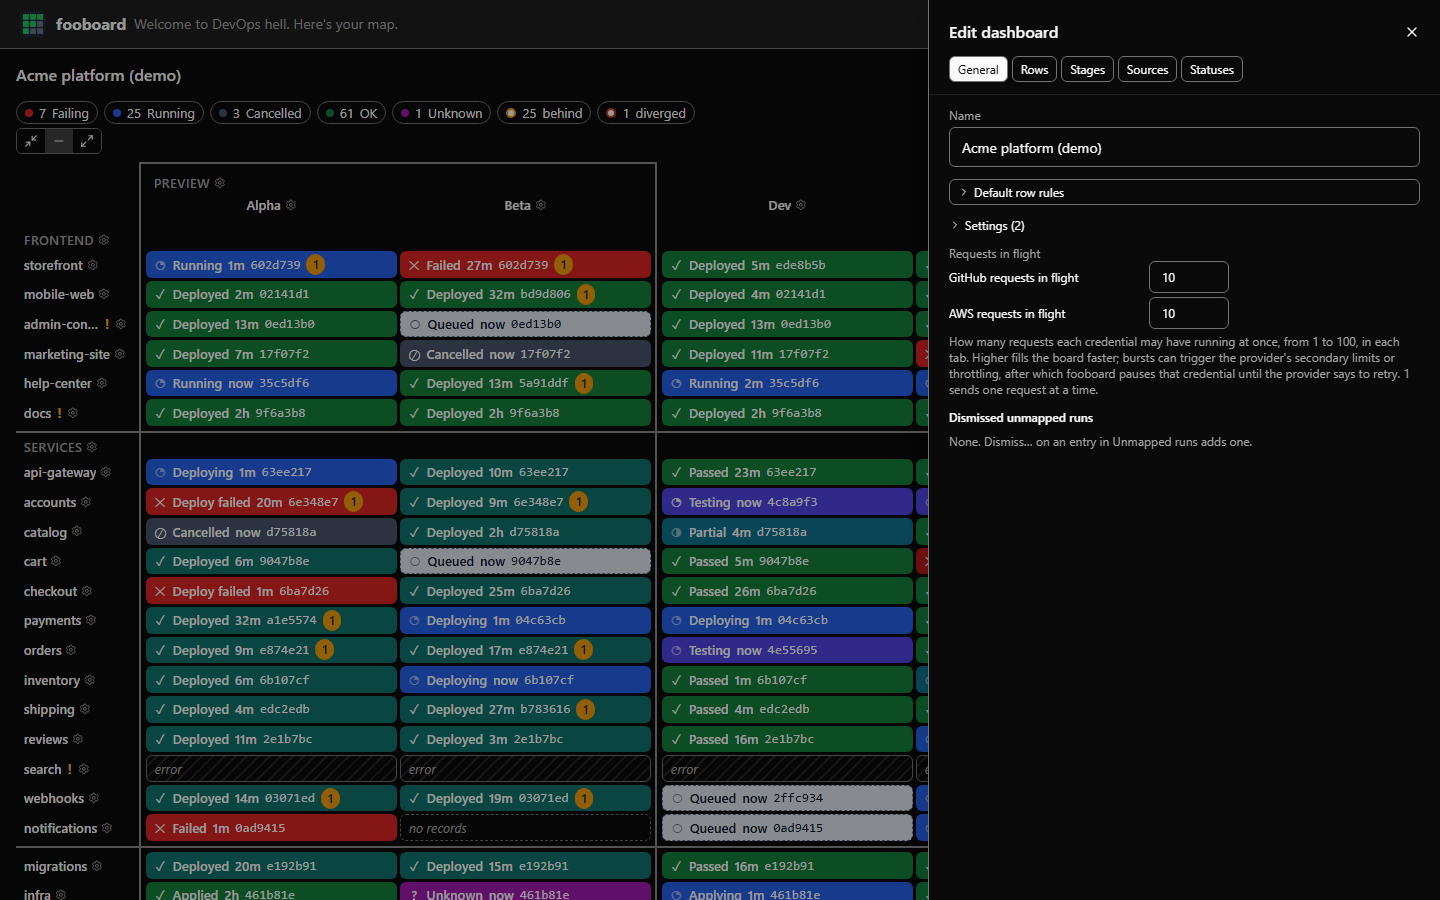
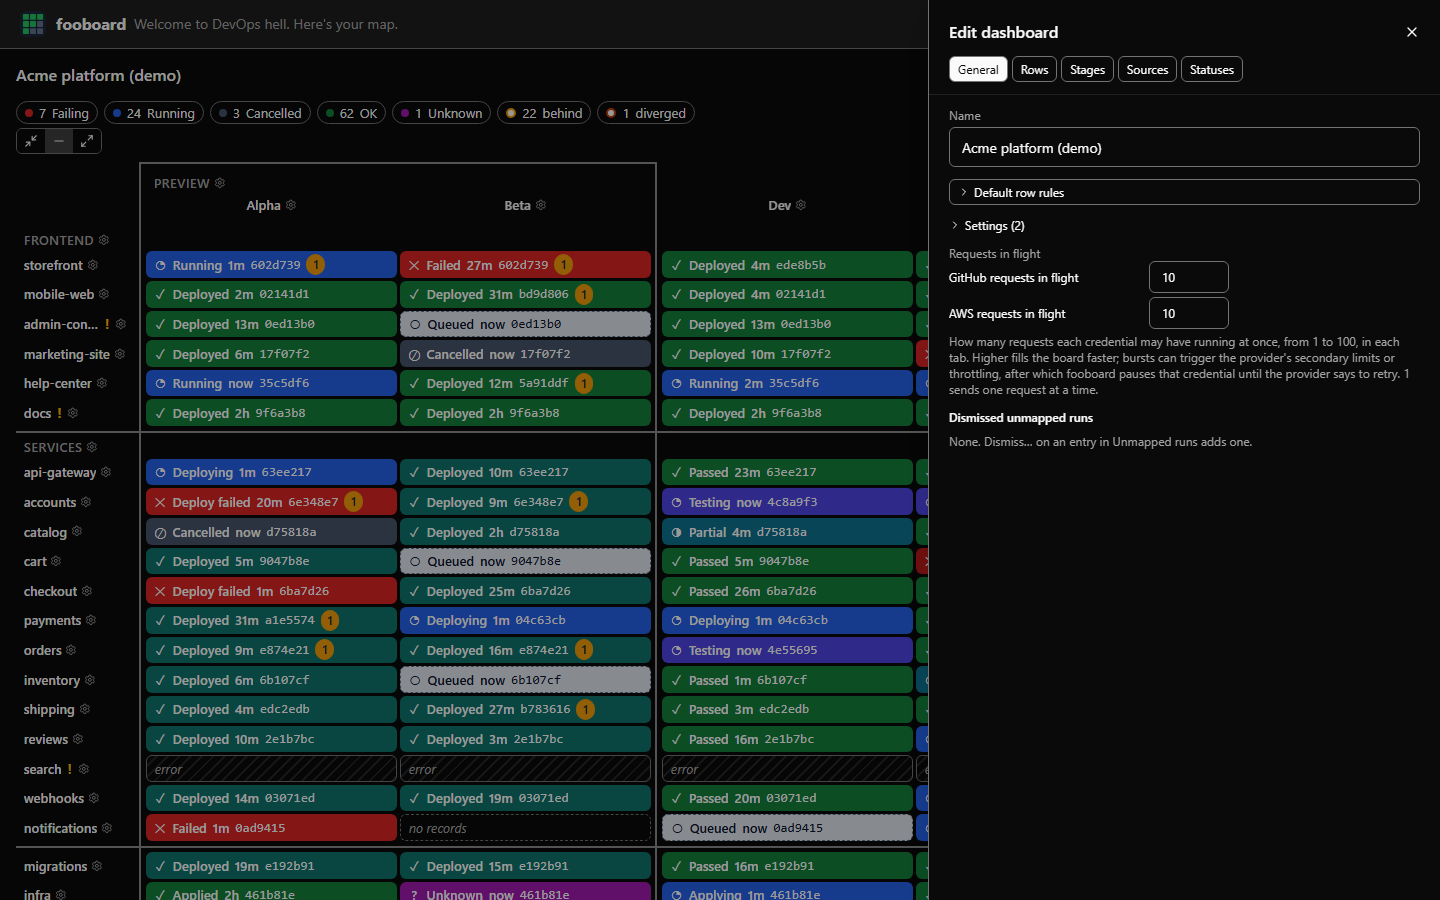
feat(docs): npm run screenshots retakes every README screenshot from the build (R4)
A Playwright run of its own (scripts/screenshots/playwright.config.ts, never npm run e2e or CI) builds, serves vite preview on port 4174, takes each shot in scripts/screenshots/shots.ts light and dark at its committed size, stops the server and compresses the PNGs with oxipng. Fresh context per shot, the demo's fixed seed, a pinned page clock and stopped animations make reruns write the same pixels; demo views wait for every cell and the failing search row's error. shots.test.ts fails while the list, the README's image references and the committed PNGs (and their sizes) disagree. The PNGs are regenerated by the script (same names and sizes; the demo now at its deterministic state). CONTRIBUTING documents retaking them.

diff --git a/scripts/screenshots/take.shots.ts b/scripts/screenshots/take.shots.ts
@@ -1,0 +1,104 @@
+/**
+ * Takes the README's screenshots (`npm run screenshots`; CONTRIBUTING,
+ * "Screenshots"): every shot in `shots.ts`, light and dark, from
+ * `vite preview` serving the production build, into `docs/screenshots/`.
+ * Not a test: only `./playwright.config.ts` runs it, never `npm run e2e`.
+ *
+ * Reruns are stable: each shot opens a fresh browser context (no saved
+ * dashboards, so `/` is the home page), the demo plays its fixed seed
+ * (Q31), and the page's clock is pinned, so the simulated world and every
+ * "time ago" are the same on every run. Animations are stopped for the
+ * capture (a spinner draws at its first frame). Every view is reached
+ * from a fresh visit with no other setup.
+ *
+ * @module
+ */
+import path from 'node:path';
+
+import type { Page } from '@playwright/test';
+
+import { openDemo } from '../../e2e/board';
+import { expect, test } from '../../e2e/guard';
+import { MIN_TEST_TIMEOUT_MS } from '../../src/test/timeouts';
+import { SCHEMES, type ShotName, SHOTS } from './shots';
+
+/** Where the README's screenshots live. */
+const OUT = path.resolve(import.meta.dirname, '../../docs/screenshots');
+
+/** The page's pinned time: the date in the demo's seed (`DEMO_SEED`). */
+const SHOT_TIME = new Date('2026-10-25T12:00:00Z');
+
+/** How long a view settles after it opens (panels slide, layout holds
+ * still): a pause, not a timeout. */
+const SETTLE_MS = 2_000;
+
+/** The demo with every cell filled in: none still loading (`aria-busy`),
+ * and the search row (the scenario's failing repo) showing its error,
+ * which it does only once its retries have failed, seconds later. */
+async function demo(page: Page): Promise<void> {
+  await openDemo(page);
+  const grid = page.getByRole('grid');
+  await expect(grid.locator('[aria-busy]')).toHaveCount(0, {
+    timeout: MIN_TEST_TIMEOUT_MS,
+  });
+  await expect(
+    grid.getByRole('button', {
+      name: /^1 problem: Couldn't read acme\/search/,
+    }),
+  ).toBeVisible({ timeout: MIN_TEST_TIMEOUT_MS });
+}
+
+/** The demo with its storefront row's settings popup open. */
+async function rowPopup(page: Page): Promise<void> {
+  await demo(page);
+  await page
+    .getByRole('button', { name: 'Settings for row storefront', exact: true })
+    .first()
+    .click();
+}
+
+/** Each shot's view, opened on a fresh page. */
+const VIEWS: Record<ShotName, (page: Page) => Promise<void>> = {
+  demo,
+  home: async (page) => {
+    await page.goto('/');
+    await page.getByRole('main').waitFor();
+  },
+  board: demo,
+  editor: async (page) => {
+    await demo(page);
+    await page.getByRole('button', { name: 'Edit dashboard' }).click();
+  },
+  'settings-editor': async (page) => {
+    await rowPopup(page);
+    await page
+      .getByRole('button', { name: 'Open in dashboard settings' })
+      .click();
+  },
+  'row-popup': rowPopup,
+  credentials: async (page) => {
+    await demo(page);
+    await page.getByRole('button', { name: 'Credentials' }).click();
+  },
+};
+
+for (const scheme of SCHEMES)
+  for (const shot of SHOTS)
+    test.describe(() => {
+      test.use({
+        viewport: shot.viewport,
+        colorScheme: scheme,
+        deviceScaleFactor: 1,
+      });
+
+      test(`${shot.name}-${scheme}`, async ({ page }) => {
+        await page.clock.setFixedTime(SHOT_TIME);
+        await VIEWS[shot.name](page);
+        await page.waitForTimeout(SETTLE_MS);
+        await page.screenshot({
+          path: path.join(OUT, `${shot.name}-${scheme}.png`),
+          animations: 'disabled',
+          ...('clip' in shot ? { clip: { x: 0, y: 0, ...shot.clip } } : {}),
+        });
+      });
+    });

diff --git a/scripts/screenshots/shots.test.ts b/scripts/screenshots/shots.test.ts
@@ -1,0 +1,68 @@
+/**
+ * Tests `npm run screenshots`' list of shots (`shots.ts`) against the
+ * README: the PNGs it writes are exactly the ones the README shows, and
+ * the ones committed in `docs/screenshots/`, at each shot's size. A shot
+ * added to or dropped from one but not the other fails here.
+ *
+ * @module
+ */
+import { readdirSync, readFileSync } from 'node:fs';
+import path from 'node:path';
+
+import { describe, expect, it } from 'vitest';
+
+import { SCHEMES, shotFiles, SHOTS } from './shots';
+
+const ROOT = path.resolve(import.meta.dirname, '../..');
+const README = path.join(ROOT, 'README.md');
+const DIR = path.join(ROOT, 'docs', 'screenshots');
+
+/** The screenshots `markdown` shows (`src` and `srcset` alike). */
+const referenced = (markdown: string): string[] => [
+  ...new Set(
+    [...markdown.matchAll(/docs\/screenshots\/([\w-]+\.png)/g)].map(
+      ([, file]) => file,
+    ),
+  ),
+];
+
+/** A PNG's size, from its IHDR chunk. */
+const pngSize = (png: Buffer): { width: number; height: number } => ({
+  width: png.readUInt32BE(16),
+  height: png.readUInt32BE(20),
+});
+
+describe('the README screenshots', () => {
+  it('finds image references in a document', () => {
+    expect(
+      referenced(
+        '<source srcset="docs/screenshots/a-dark.png" />\n<img src="docs/screenshots/a-light.png" /> docs/screenshots/a-dark.png',
+      ),
+    ).toEqual(['a-dark.png', 'a-light.png']);
+  });
+
+  it('are the shots the script takes, no more and no fewer', () => {
+    expect(referenced(readFileSync(README, 'utf8')).sort()).toEqual(
+      shotFiles().sort(),
+    );
+  });
+
+  it('are the PNGs committed, no more and no fewer', () => {
+    expect(
+      readdirSync(DIR)
+        .filter((file) => file.endsWith('.png'))
+        .sort(),
+    ).toEqual(shotFiles().sort());
+  });
+
+  it.each(
+    SHOTS.flatMap((shot) =>
+      SCHEMES.map((scheme) => ({
+        file: `${shot.name}-${scheme}.png`,
+        size: 'clip' in shot ? shot.clip : shot.viewport,
+      })),
+    ),
+  )('$file is the shot\u2019s size', ({ file, size }) => {
+    expect(pngSize(readFileSync(path.join(DIR, file)))).toEqual(size);
+  });
+});

diff --git a/scripts/screenshots/shots.ts b/scripts/screenshots/shots.ts
@@ -1,0 +1,55 @@
+/**
+ * The README's screenshots (`docs/screenshots/`), as `npm run screenshots`
+ * takes them: each shot's name and size, taken once per colour scheme as
+ * `<name>-<scheme>.png`. `shots.test.ts` checks this list against the
+ * README's image references and the committed PNGs, so a shot can't be
+ * added to or dropped from one without the other.
+ *
+ * Pure data: the views themselves are in `take.shots.ts`, keyed by name.
+ *
+ * @module
+ */
+
+/** A rectangle in CSS px (one CSS px is one image px: scale factor 1). */
+export interface Size {
+  width: number;
+  height: number;
+}
+
+/** One README screenshot. */
+export interface Shot {
+  /** The file name before `-<scheme>.png`. */
+  name: string;
+  /** The browser's viewport. */
+  viewport: Size;
+  /** The image's size when it is cropped from the viewport's top left;
+   * the whole viewport when absent. */
+  clip?: Size;
+}
+
+/** The colour schemes every shot is taken in. */
+export const SCHEMES = ['light', 'dark'] as const;
+
+/** The README's desktop viewport. */
+const DESKTOP: Size = { width: 1440, height: 900 };
+
+/** The board's design viewport (`DEMO_VIEWPORT`, as in
+ * `playwright.config.ts`): the README's hero shot. */
+const HERO: Size = { width: 1920, height: 950 };
+
+export const SHOTS = [
+  { name: 'demo', viewport: HERO },
+  { name: 'home', viewport: DESKTOP },
+  { name: 'board', viewport: DESKTOP },
+  { name: 'editor', viewport: DESKTOP },
+  { name: 'settings-editor', viewport: DESKTOP },
+  { name: 'row-popup', viewport: DESKTOP, clip: { width: 414, height: 729 } },
+  { name: 'credentials', viewport: DESKTOP },
+] as const satisfies readonly Shot[];
+
+/** A shot's name. */
+export type ShotName = (typeof SHOTS)[number]['name'];
+
+/** Every file the shots write, `<name>-<scheme>.png`. */
+export const shotFiles = (): string[] =>
+  SHOTS.flatMap(({ name }) => SCHEMES.map((scheme) => `${name}-${scheme}.png`));

diff --git a/scripts/screenshots/playwright.config.ts b/scripts/screenshots/playwright.config.ts
@@ -1,0 +1,43 @@
+/**
+ * Playwright config for `npm run screenshots` (CONTRIBUTING,
+ * "Screenshots"): runs `take.shots.ts` in Chromium, one shot at a time,
+ * against `vite preview` serving the production build with the headers
+ * that ship. Its own port, never a server already running, so the shots
+ * show the build the script has just made; Playwright stops the server
+ * when the shots are done. Not part of `npm run e2e` or CI.
+ *
+ * @module
+ */
+import path from 'node:path';
+
+import { defineConfig, devices } from '@playwright/test';
+
+import { MIN_TEST_TIMEOUT_MS } from '../../src/test/timeouts';
+
+/** The repo's root, where `vite preview` runs. */
+const ROOT = path.resolve(import.meta.dirname, '../..');
+
+/** `vite preview`'s port for the shots (the e2e suite's is 4173). */
+const PORT = 4174;
+
+export default defineConfig({
+  testDir: '.',
+  testMatch: 'take.shots.ts',
+  outputDir: path.join(ROOT, 'test-results', 'screenshots'),
+  // One shot at a time: a busy machine settles views more slowly.
+  workers: 1,
+  timeout: 2 * MIN_TEST_TIMEOUT_MS,
+  expect: { timeout: MIN_TEST_TIMEOUT_MS },
+  retries: 0,
+  reporter: 'list',
+  use: {
+    ...devices['Desktop Chrome'],
+    baseURL: `http://localhost:${String(PORT)}`,
+  },
+  webServer: {
+    command: `npx vite preview --port ${String(PORT)} --strictPort`,
+    cwd: ROOT,
+    url: `http://localhost:${String(PORT)}`,
+    reuseExistingServer: false,
+  },
+});

diff --git a/CONTRIBUTING.md b/CONTRIBUTING.md
@@ -24,11 +24,14 @@ npm run e2e          # Playwright smoke tests on the build (run npm run build fi
 npm run e2e:release  # the same, as the release runs them: never on a server already running
 npm run knip         # find unused files, dependencies and exports
 npm run ai:schema    # rewrite public/ai.schema.json from the zod schemas (its test fails while it is stale)
+npm run screenshots  # build, then retake every README screenshot (see Screenshots below)
 ```
 
 The Playwright tests (`e2e/`) run against `vite preview` serving `dist/` with `customHttp.yml`'s headers, so under the CSP that ships. A guard on every page fails a test on any CSP violation and on any request to a host but the app's own. They cover the demo board, every dialog, sheet, popover and drag, Release notes, the loading screen (held by blocking the app's scripts), the error screen, the served headers (and `/ai`, `/ai.md`, `/ai.schema.json` and `/llms.txt`), importing `/ai`'s `#j=` example link and a share's pasted JSON, _Copy instructions_ copying the preview site's `/ai.md`, touch scrolling on a phone (390 × 844 with touch, in Chromium and WebKit; Firefox has no mobile emulation) and the automated accessibility checks (axe, WCAG 2.1 A and AA, light and dark; Tab order; reduced motion). CI runs them in Chromium; install it once with `npx playwright install chromium`. A release runs them too (`npm run e2e:release`, last in release-it's hooks, on a preview server of its own), so Chromium must also be installed on the releasing machine. No Playwright timeout (a `timeout:` option or `test.setTimeout`) is shorter than `MIN_TEST_TIMEOUT_MS` (30 s, `src/test/timeouts.ts`): build longer ones from it, and wait for a state (an attribute such as `data-in-progress`) rather than pausing a fixed time; `src/e2eTimeouts.test.ts` fails on a shorter one.
 
 **Browser pass** (before a release): `FOOBOARD_E2E_BROWSERS=all npm run e2e` runs them in Playwright's Chromium, the installed Chrome and Edge, Firefox and WebKit (`npx playwright install chromium firefox webkit`). WebKit stands in for Safari; real Safari on macOS and iOS is checked by hand (the spec's Verification Checklist lists the steps).
+
+**Screenshots**: `npm run screenshots` retakes every README screenshot in `docs/screenshots/`, light and dark, at the size the README shows it. It builds, starts `vite preview` on a port of its own (4174), runs `scripts/screenshots/take.shots.ts` in Playwright's Chromium (`scripts/screenshots/playwright.config.ts`, never part of `npm run e2e` or CI), stops the server and compresses the PNGs losslessly (`oxipng -o 4 --strip safe`, fetched by `npx -p oxipng-bin`). Reruns write the same pixels: each shot starts from a fresh browser (no saved dashboards), the demo plays its fixed seed, the page's clock is pinned and animations are stopped for the capture; every view opens from that fresh visit with no other setup, and a demo view waits until every cell has loaded and the failing `search` row shows its error. Run it after a change to anything a screenshot shows, look at the result and commit the PNGs that changed. To add or drop a screenshot, change `SHOTS` (`scripts/screenshots/shots.ts`) and its view in `take.shots.ts`, and the README's image reference with it: `scripts/screenshots/shots.test.ts` fails while the list, the README's references and the committed PNGs (and their sizes) disagree.
 
 ## Workflow
 
